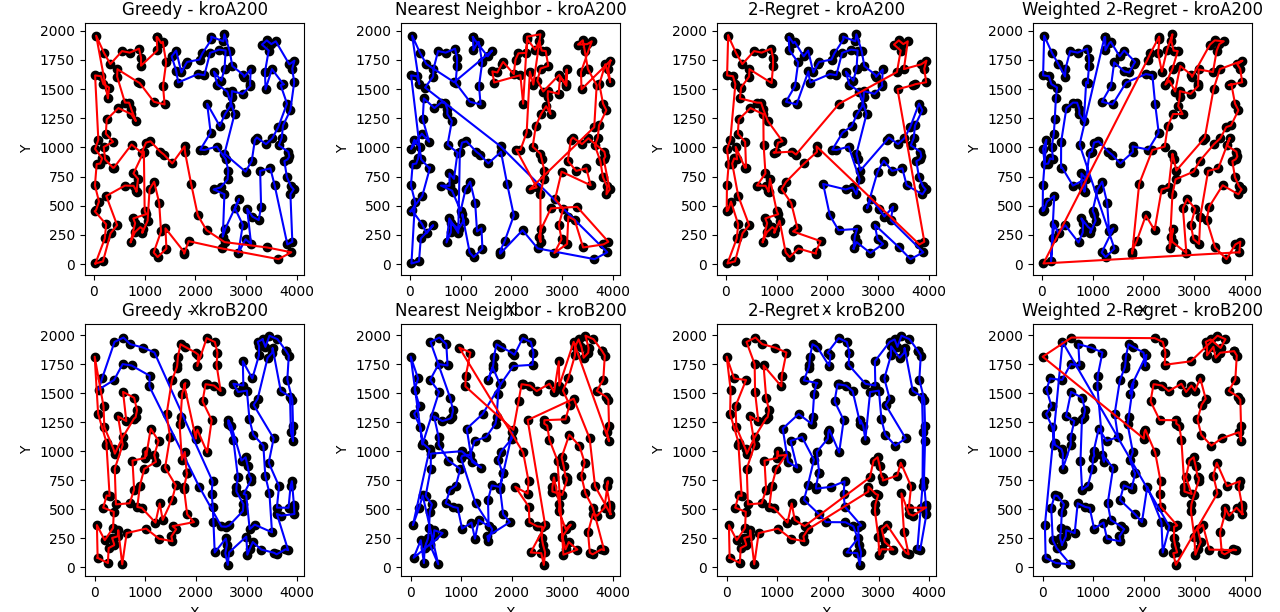
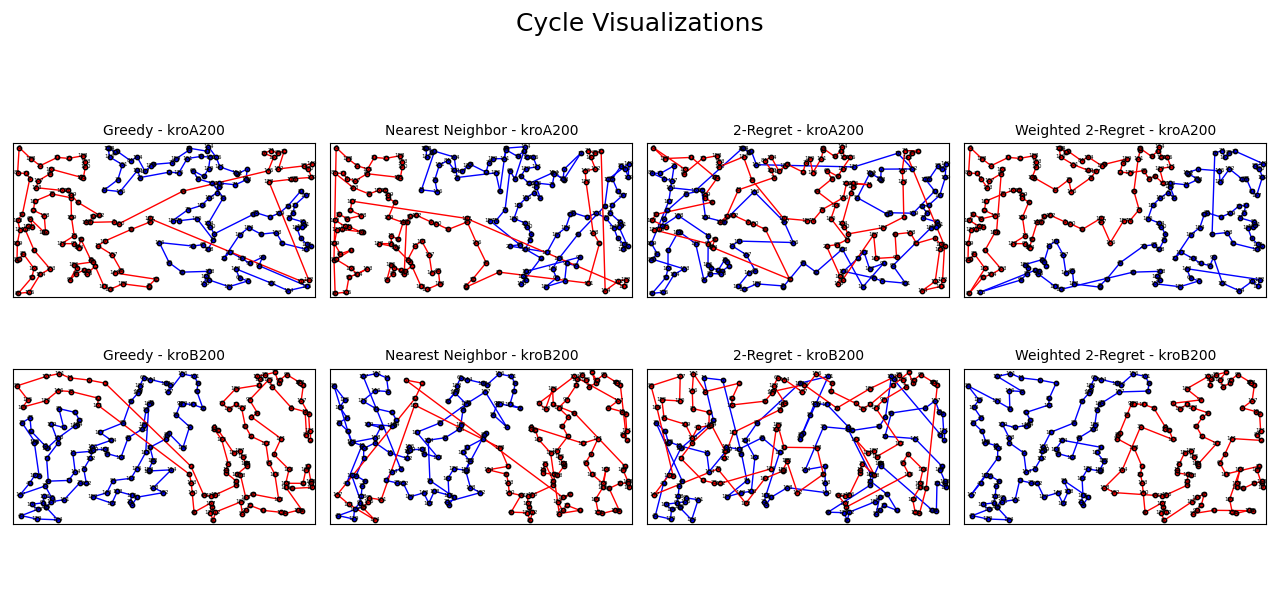
I think better?

diff --git a/Inteligent_optimalization/Lab1.py b/Inteligent_optimalization/Lab1.py
@@ -5,175 +5,218 @@ import matplotlib.pyplot as plt
 
 class CycleOptimizer:
     def __init__(self, problem_name):
-        self.problem = self.load_problem(problem_name)
-        self.distance_matrix = self.calculate_distance_matrix(self.problem)
+        self.problem = tsplib95.load(f"{problem_name}.tsp")
+        self.nodes = list(self.problem.get_nodes())
+        self.distance_matrix = self._compute_distance_matrix()
+        self.coords = np.array([self.problem.node_coords[i] for i in self.nodes])
 
-    def load_problem(self, problem_name):
-        return tsplib95.load(f'{problem_name}.tsp')
-
-    def calculate_distance_matrix(self, problem):
-        nodes = list(problem.get_nodes())
-        n = len(nodes)
-        distance_matrix = np.zeros((n, n))
+    def _compute_distance_matrix(self):
+        n = len(self.nodes)
+        matrix = np.zeros((n, n))
         for i in range(n):
             for j in range(n):
                 if i != j:
-                    distance_matrix[i, j] = problem.get_weight(nodes[i], nodes[j])
-        return distance_matrix
+                    matrix[i][j] = self.problem.get_weight(self.nodes[i], self.nodes[j])
+        return matrix
 
-    def create_two_cycles(self):
-        raise NotImplementedError("This method should be implemented by subclasses")
+    def cycle_length(self, cycle):
+        return sum(
+            self.distance_matrix[cycle[i], cycle[(i + 1) % len(cycle)]]
+            for i in range(len(cycle))
+        )
+        
+    def plot_cycles(self, cycle1, cycle2, title=""):
+        plt.figure(figsize=(8, 6))
+        coords = self.coords
 
-    def calculate_cycle_length(self, cycle):
-        length = 0
-        for i in range(len(cycle)):
-            length += self.distance_matrix[cycle[i], cycle[(i + 1) % len(cycle)]]
-        return length
+        # Draw cycle 1
+        for i in range(len(cycle1)):
+            a = coords[cycle1[i]]
+            b = coords[cycle1[(i + 1) % len(cycle1)]]
+            plt.plot([a[0], b[0]], [a[1], b[1]], 'b-', linewidth=1.5)
+        plt.scatter(coords[cycle1, 0], coords[cycle1, 1], c='blue', label='Cycle 1')
 
-    def plot_cycles(self, cycle1, cycle2, title, subplot_position):
-        nodes = list(self.problem.get_nodes())
-        coordinates = np.array([self.problem.node_coords[node] for node in nodes])
+        # Draw cycle 2
+        for i in range(len(cycle2)):
+            a = coords[cycle2[i]]
+            b = coords[cycle2[(i + 1) % len(cycle2)]]
+            plt.plot([a[0], b[0]], [a[1], b[1]], 'orange', linewidth=1.5)
+        plt.scatter(coords[cycle2, 0], coords[cycle2, 1], c='orange', label='Cycle 2')
 
-        plt.subplot(subplot_position)
-        plt.scatter(coordinates[:, 0], coordinates[:, 1], c='black')
-
-        def plot_cycle(cycle, color):
-            cycle_coords = np.array([coordinates[node] for node in cycle])
-            cycle_coords = np.vstack([cycle_coords, cycle_coords[0]])
-            plt.plot(cycle_coords[:, 0], cycle_coords[:, 1], color=color)
-
-        plot_cycle(cycle1, 'blue')
-        plot_cycle(cycle2, 'red')
+        # Draw labels
+        for i, (x, y) in enumerate(coords):
+            plt.text(x, y, str(i), fontsize=6, ha='center', va='center')
 
         plt.title(title)
-        plt.xlabel('X')
-        plt.ylabel('Y')
-
+        plt.axis('equal')
+        plt.legend()
+        plt.grid(True)
+        plt.show()
 
 class BalancedCycleOptimizer(CycleOptimizer):
-    def insert_best(self, cycle, unvisited, strategy):
-        best_value = float('inf')
+    def insert_best(self, cycle, unvisited, strategy, regret_mode=False):
+        best_score = float('inf')
         best_node = None
         best_pos = None
 
         for node in unvisited:
+            insertions = []
             for i in range(len(cycle)):
                 a, b = cycle[i], cycle[(i + 1) % len(cycle)]
-                increase = self.distance_matrix[a, node] + self.distance_matrix[node, b] - self.distance_matrix[a, b]
-                value = strategy(increase, a, node, b)
-                if value < best_value:
-                    best_value = value
-                    best_node = node
-                    best_pos = i + 1
+                score = strategy(a, node, b)
+                insertions.append((score, i + 1))
+            insertions.sort()
+
+            if len(insertions) >= 2:
+                regret = insertions[1][0] - insertions[0][0]
+            else:
+                regret = 0
+
+            if regret_mode:
+                total_score = regret
+            else:
+                total_score = insertions[0][0]
+
+            if total_score < best_score:
+                best_score = total_score
+                best_node = node
+                best_pos = insertions[0][1]
 
         return best_node, best_pos
 
-    def build_balanced_cycles(self, strategy):
-        n = len(self.distance_matrix)
-        target1 = n // 2 + n % 2
-        target2 = n // 2
+    def build_cycles(self, strategy, regret_mode=False):
+        n = len(self.nodes)
+        t1, t2 = n // 2 + n % 2, n // 2
+        s1 = random.randint(0, n - 1)
+        s2 = max(range(n), key=lambda i: self.distance_matrix[s1][i])
 
-        start1 = random.randint(0, n - 1)
-        start2 = max(range(n), key=lambda i: self.distance_matrix[start1][i])
+        c1, c2 = [s1, s1], [s2, s2]
+        unvisited = set(range(n)) - {s1, s2}
 
-        cycle1 = [start1, start1]
-        cycle2 = [start2, start2]
-
-        unvisited = set(range(n)) - {start1, start2}
-
-        while len(cycle1) - 1 < target1 or len(cycle2) - 1 < target2:
-            if len(cycle1) - 1 < target1:
-                node, pos = self.insert_best(cycle1, unvisited, strategy)
-                cycle1.insert(pos, node)
+        while len(c1) - 1 < t1 or len(c2) - 1 < t2:
+            if len(c1) - 1 < t1:
+                node, pos = self.insert_best(c1, unvisited, strategy, regret_mode)
+                c1.insert(pos, node)
                 unvisited.remove(node)
-            if len(cycle2) - 1 < target2 and unvisited:
-                node, pos = self.insert_best(cycle2, unvisited, strategy)
-                cycle2.insert(pos, node)
+            if len(c2) - 1 < t2 and unvisited:
+                node, pos = self.insert_best(c2, unvisited, strategy, regret_mode)
+                c2.insert(pos, node)
                 unvisited.remove(node)
 
-        return cycle1[:-1], cycle2[:-1]
+        return c1[:-1], c2[:-1]
 
+# === ALGORYTMY ===
 
-class GreedyCycleOptimizer(BalancedCycleOptimizer):
+class Greedy(BalancedCycleOptimizer):
     def create_two_cycles(self):
-        return self.build_balanced_cycles(lambda inc, a, n, b: inc)
+        def strategy(a, n, b):
+            return self.distance_matrix[a][n] + self.distance_matrix[n][b] - self.distance_matrix[a][b]
+        return self.build_cycles(strategy, regret_mode=False)
 
-
-class NearestNeighborCycleOptimizer(BalancedCycleOptimizer):
+class NearestNeighbor(BalancedCycleOptimizer):
     def create_two_cycles(self):
-        def nearest_insertion_cost(inc, a, n, b):
-            return min(self.distance_matrix[n][a], self.distance_matrix[n][b])
-        return self.build_balanced_cycles(nearest_insertion_cost)
+        def strategy(a, n, b):
+            return min(self.distance_matrix[a][n], self.distance_matrix[n][b])
+        return self.build_cycles(strategy, regret_mode=False)
 
-
-class RegretCycleOptimizer(BalancedCycleOptimizer):
+class TwoRegret(BalancedCycleOptimizer):
     def create_two_cycles(self):
-        def regret_strategy(inc, a, n, b):
-            return inc
-        return self.build_balanced_cycles(regret_strategy)
+        def strategy(a, n, b):
+            return self.distance_matrix[a][n] + self.distance_matrix[n][b] - self.distance_matrix[a][b]
+        return self.build_cycles(strategy, regret_mode=True)
 
+class Weighted2Regret(BalancedCycleOptimizer):
+    def create_two_cycles(self, w1=1.2, w2=-0.7):
+        def strategy(a, n, b):
+            increase = self.distance_matrix[a][n] + self.distance_matrix[n][b] - self.distance_matrix[a][b]
+            proximity = (self.distance_matrix[a][n] + self.distance_matrix[n][b]) / 2
+            return w1 * increase + w2 * proximity
+        return self.build_cycles(strategy, regret_mode=False)
 
-class WeightedRegretCycleOptimizer(BalancedCycleOptimizer):
-    def create_two_cycles(self, weight1=1, weight2=-1):
-        def weighted_regret(inc, a, n, b):
-            return weight1 * inc + weight2 * (self.distance_matrix[a][n] + self.distance_matrix[n][b]) / 2
-        return self.build_balanced_cycles(weighted_regret)
+# === EKSPERYMENTY ===
 
-
-# === EXPERIMENTAL RESULTS TABLE ===
-def run_experiments(optimizer_class, problem_name, label, runs=100):
-    total_lengths = []
-
-    for i in range(runs):
-        random.seed(i)
-        optimizer = optimizer_class(problem_name)
-        if isinstance(optimizer, WeightedRegretCycleOptimizer):
-            cycle1, cycle2 = optimizer.create_two_cycles(weight1=1, weight2=-1)
+def run_experiment(optimizer_class, instance, label):
+    results = []
+    for i in range(100):
+        optimizer = optimizer_class(instance)
+        if label == "Weighted 2-Regret":
+            c1, c2 = optimizer.create_two_cycles(w1=1.2, w2=-0.7)
         else:
-            cycle1, cycle2 = optimizer.create_two_cycles()
-        length1 = optimizer.calculate_cycle_length(cycle1)
-        length2 = optimizer.calculate_cycle_length(cycle2)
-        total_lengths.append(length1 + length2)
+            c1, c2 = optimizer.create_two_cycles()
+        total = optimizer.cycle_length(c1) + optimizer.cycle_length(c2)
+        results.append(total)
+    avg = round(np.mean(results), 2)
+    return f"{avg} ({int(np.min(results))} – {int(np.max(results))})"
 
-    avg = round(np.mean(total_lengths), 2)
-    min_val = int(np.min(total_lengths))
-    max_val = int(np.max(total_lengths))
+def full_table():
+    instances = ["kroA200", "kroB200"]
+    methods = [
+        (Greedy, "Greedy"),
+        (NearestNeighbor, "Nearest Neighbor"),
+        (TwoRegret, "2-Regret"),
+        (Weighted2Regret, "Weighted 2-Regret")
+    ]
 
-    return f"{avg} ({min_val} – {max_val})"
+    print(f"{'':<20} {'kroA200':<30} {'kroB200'}")
+    print("=" * 80)
+    for cls, label in methods:
+        res_a = run_experiment(cls, "kroA200", label)
+        res_b = run_experiment(cls, "kroB200", label)
+        print(f"{label:<20} {res_a:<30} {res_b}")
 
-methods = [
-    (GreedyCycleOptimizer, "Greedy"),
-    (NearestNeighborCycleOptimizer, "Nearest Neighbor"),
-    (RegretCycleOptimizer, "2-Regret"),
-    (WeightedRegretCycleOptimizer, "Weighted 2-Regret")
-]
 
-# === OPTIONAL: PLOT EXAMPLES ===
-def plot_example_cycles():
-    fig = plt.figure(figsize=(12, 10))
-    for j, instance in enumerate(["kroA200", "kroB200"]):
-        for i, (optimizer_class, label) in enumerate(methods):
-            optimizer = optimizer_class(instance)
-            if isinstance(optimizer, WeightedRegretCycleOptimizer):
-                cycle1, cycle2 = optimizer.create_two_cycles(weight1=1, weight2=-1)
+def visualize_all_cycles():
+    instances = ["kroA200", "kroB200"]
+    methods = [
+        (Greedy, "Greedy"),
+        (NearestNeighbor, "Nearest Neighbor"),
+        (TwoRegret, "2-Regret"),
+        (Weighted2Regret, "Weighted 2-Regret")
+    ]
+
+    fig, axes = plt.subplots(len(instances), len(methods), figsize=(16, 8))
+    fig.suptitle("Cycle Visualizations", fontsize=18)
+
+    for i, instance in enumerate(instances):
+        for j, (cls, label) in enumerate(methods):
+            random.seed(42) # czemu?
+            optimizer = cls(instance)
+            if label == "Weighted 2-Regret":
+                c1, c2 = optimizer.create_two_cycles(w1=1.2, w2=-0.7)
             else:
-                cycle1, cycle2 = optimizer.create_two_cycles()
-            pos = 4 * j + i + 1  # 4 columns layout: 2x4 (instance x methods)
-            optimizer.plot_cycles(cycle1, cycle2, f"{label} - {instance}", 240 + pos)
-    plt.tight_layout()
+                c1, c2 = optimizer.create_two_cycles()
+
+            ax = axes[i][j] if len(instances) > 1 else axes[j]
+            coords = optimizer.coords
+
+            # CYCLE 1 - blue
+            for k in range(len(c1)):
+                a = coords[c1[k]]
+                b = coords[c1[(k + 1) % len(c1)]]
+                ax.plot([a[0], b[0]], [a[1], b[1]], color='blue', linewidth=1)
+            ax.scatter(coords[c1, 0], coords[c1, 1], color='blue', edgecolors='black', s=10, zorder=3)
+
+            # CYCLE 2 - red
+            for k in range(len(c2)):
+                a = coords[c2[k]]
+                b = coords[c2[(k + 1) % len(c2)]]
+                ax.plot([a[0], b[0]], [a[1], b[1]], color='red', linewidth=1)
+            ax.scatter(coords[c2, 0], coords[c2, 1], color='red', edgecolors='black', s=10, zorder=3)
+
+            # Node labels
+            for idx, (x, y) in enumerate(coords):
+                ax.text(x, y, str(idx), fontsize=4, ha='center', va='center')
+
+            ax.set_title(f"{label} - {instance}", fontsize=10)
+            ax.set_xticks([])
+            ax.set_yticks([])
+            ax.set_xlim(coords[:, 0].min() - 50, coords[:, 0].max() + 50)
+            ax.set_ylim(coords[:, 1].min() - 50, coords[:, 1].max() + 50)
+            ax.set_aspect('equal')
+
+    plt.tight_layout(rect=[0, 0, 1, 0.96])
     plt.show()
 
-print("\n=== EXPERIMENTAL RESULTS (100 RUNS) ===")
 
-instances = ["kroA200", "kroB200"]
-
-header = "| Method \t\t\t| kroA200 \t\t\t\t| kroB200 \t\t\t\t|"
-separator = "|-----------------------|-------------------------------|-------------------------------|"
-print(header)
-print(separator)
-
-for optimizer_class, label in methods:
-    results = [run_experiments(optimizer_class, inst, label) for inst in instances]
-    print(f"| {label:<21} | {results[0]:<29} | {results[1]:<29} |")
-
-plot_example_cycles()
+full_table()
+visualize_all_cycles()
